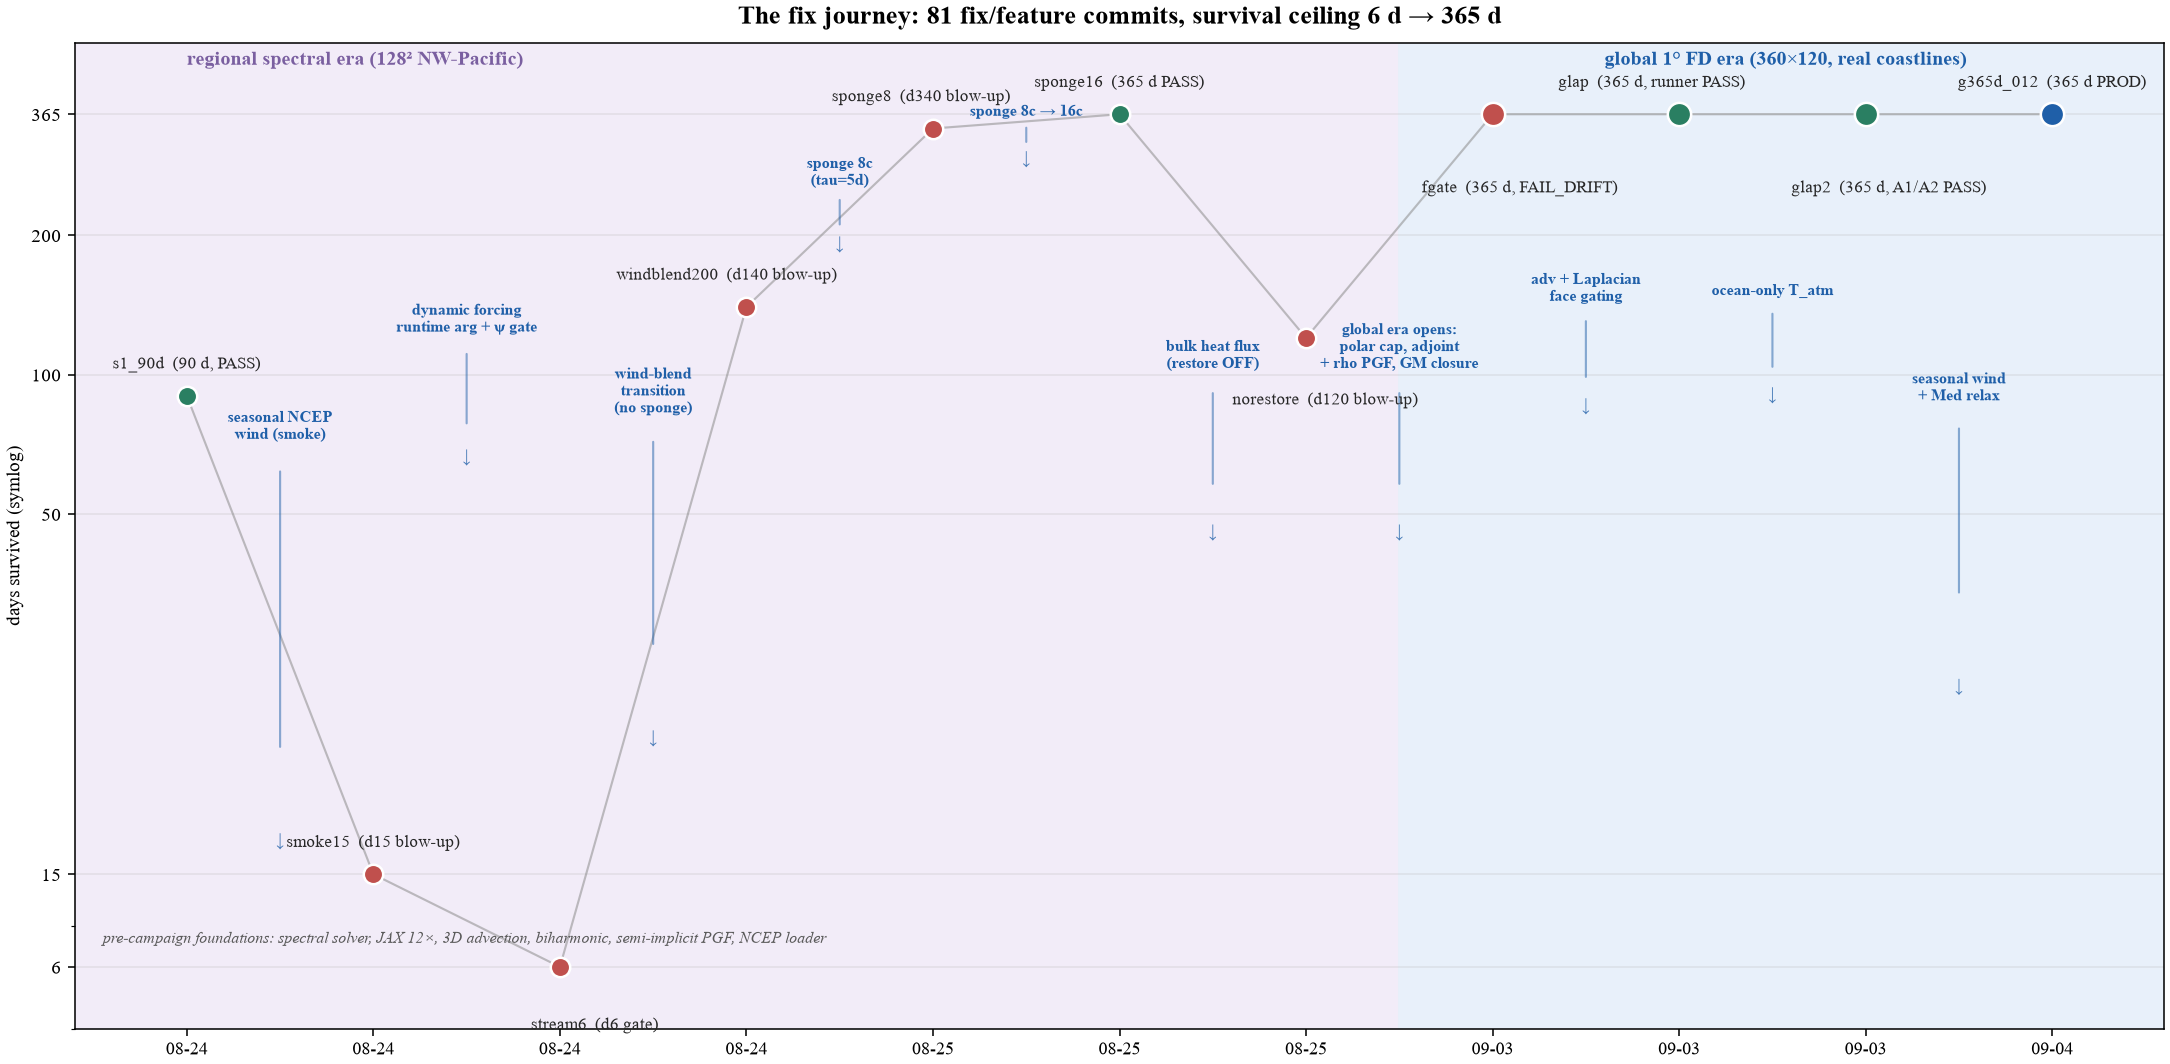
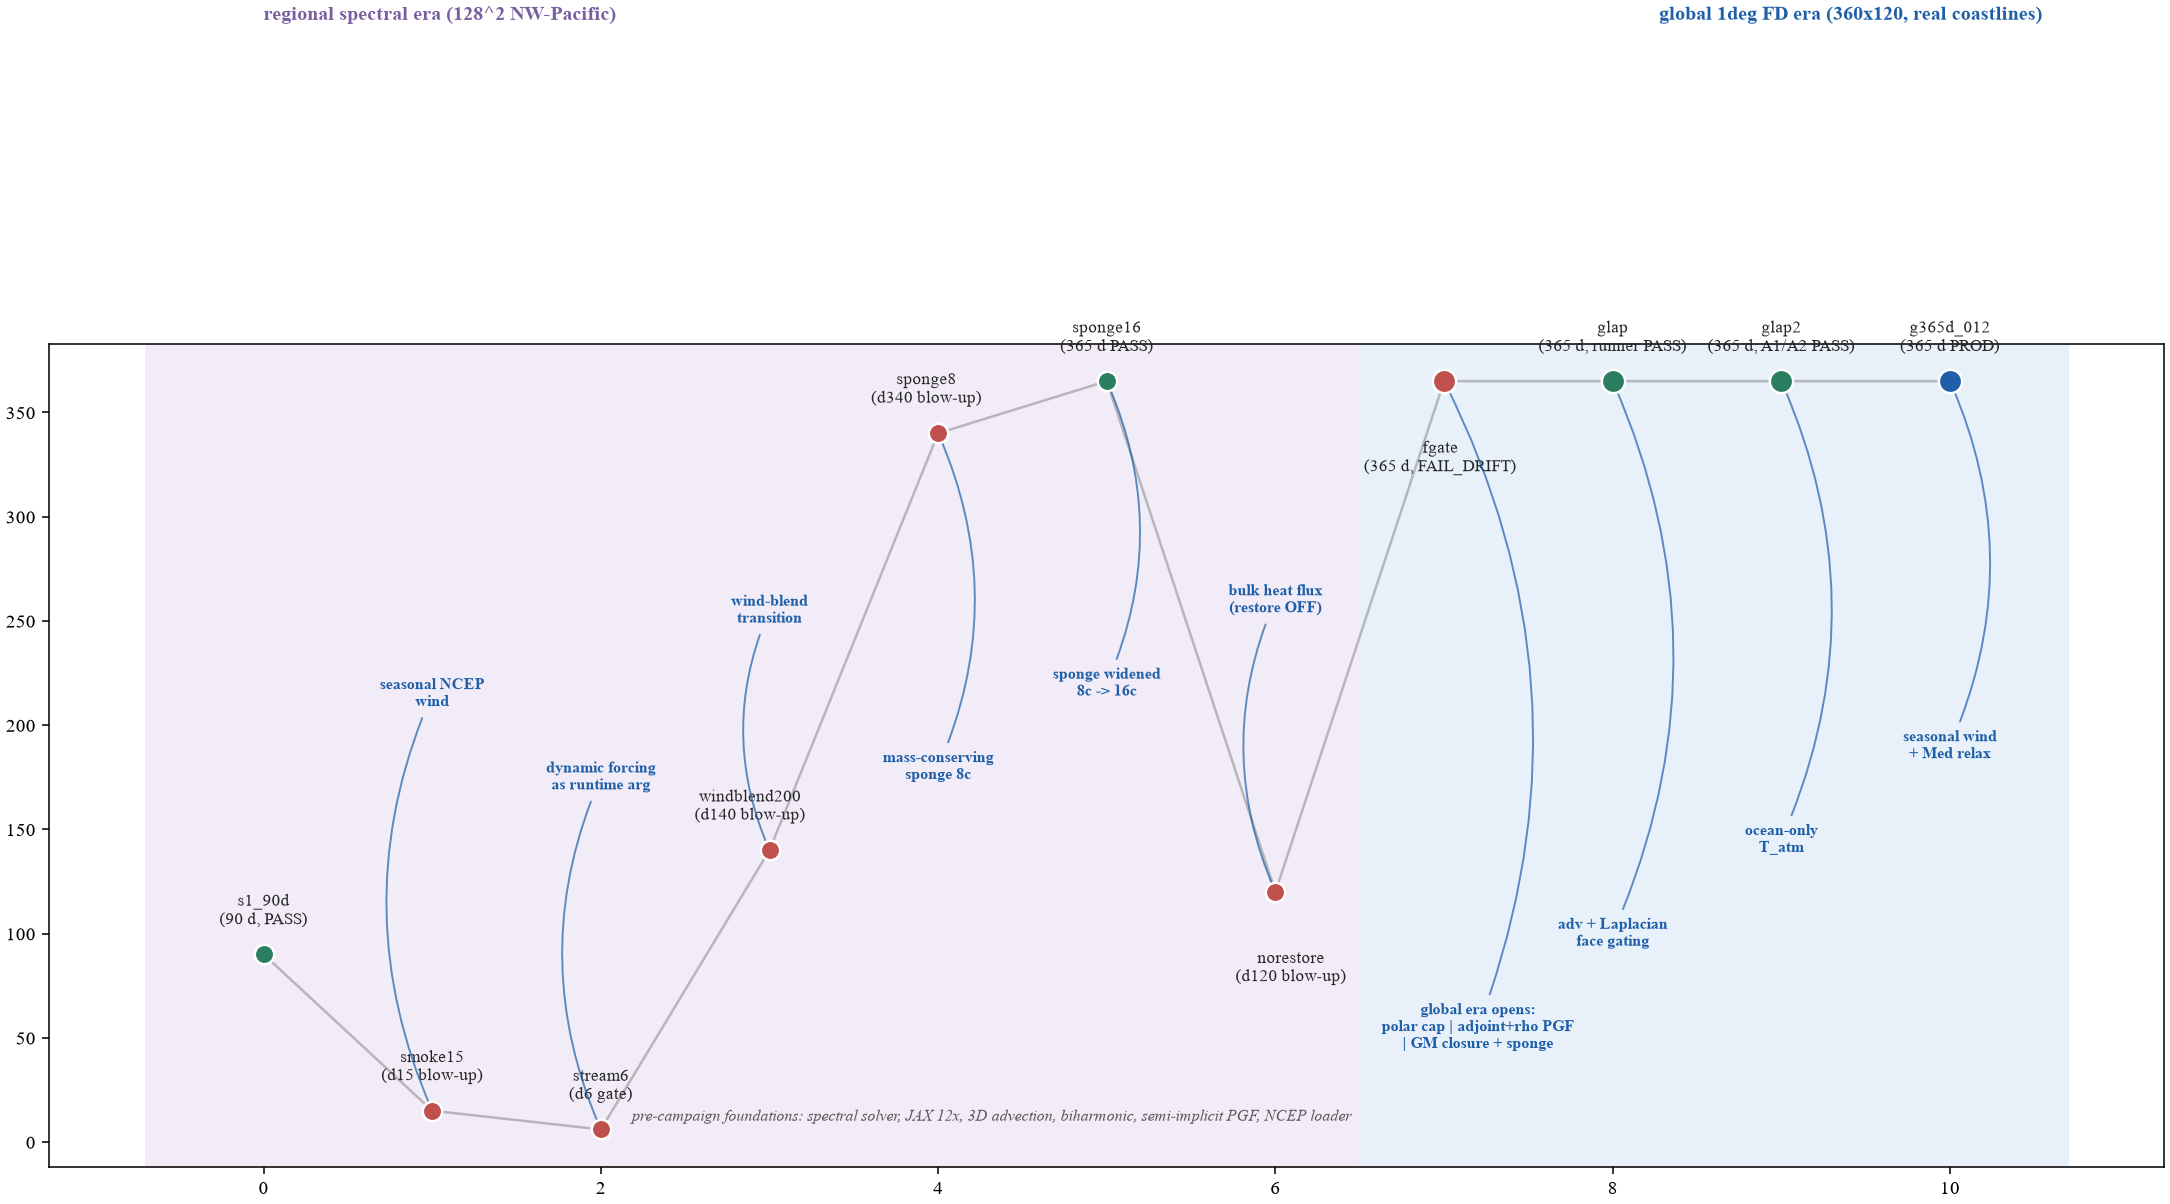
feat(fig11): callouts anchored to curves — regional tier lanes, text-only bbox packing
- each fix label is a callout with a leader line pointing at the run
  marker it enabled; x is the marker x (dx=0 for all 10), so labels read
  as attached to the curve, not floating in gaps
- placement: 3 x-regions (left/mid/right) x fixed y-tier stacks placed
  into known-empty bands; leftover brush resolved by a text-only pixel
  nudge pass; final harness = 0 text-text overlaps
- root-cause fix for measurement drift: measure text-only extents via
  Text.get_window_extent (Annotation.get_window_extent unions the leader
  arrow, inflating boxes ~3x); era headers converted to ax.text (their
  annotate() instances carried IdentityTransform in mpl 3.11)

diff --git a/results/campaign_compare/make_fig11_fix_journey.py b/results/campaign_compare/make_fig11_fix_journey.py
@@ -1,10 +1,10 @@
-# fig11: the fix journey — survival ladder 08-24 → 09-04.
-# Runs plotted as evenly-spaced stations on a chronological track (x = run
-# index, NOT wall-clock — three run clusters share days, calendar spacing
-# collided labels). y = days survived (symlog). Fixes annotated in the
-# gaps between the runs they enabled. Image-blind: font_audit + data
-# assertions, never read back.
-import os, sys
+# fig11: the fix journey — survival ladder 08-24 -> 09-04.
+# Runs are stations on a chronological track (x = run index). y = days
+# survived (symlog). Each fix is a CALLOUT box with a leader line pointing
+# AT the run marker it enabled. Placement starts from a simple 3-row rule
+# and is then cleaned by a deterministic pixel-space collision resolver
+# (image-blind: bbox harness at the end must report 0 overlaps).
+import os
 import numpy as np
 import matplotlib
 matplotlib.use("Agg")
@@ -28,82 +28,55 @@ def font_audit(fig, name):
 
 plt.rcParams["font.family"] = "Times New Roman"
 
-# (date, days survived, color, label, label placement)
-# placement: (dx, dy) in points from the marker — hand-set to avoid any
-# collision since several runs share y=365 or sit 2 days apart.
+# (date, days survived, color, label, label placement (dx, dy[, ha]))
 RUNS = [
-    ("08-24",  90, "#2a7f62", "s1_90d  (90 d, PASS)",            (0, 12)),
-    ("08-24",  15, "#c0504d", "smoke15  (d15 blow-up)",          (0, 12)),
-    ("08-24",   6, "#c0504d", "stream6  (d6 gate)",              (18, -26)),
-    ("08-24", 140, "#c0504d", "windblend200  (d140 blow-up)",    (-10, 12), "right"),
-    ("08-25", 340, "#c0504d", "sponge8  (d340 blow-up)",         (-6, 12)),
-    ("08-25", 365, "#2a7f62", "sponge16  (365 d PASS)",          (0, 12)),
-    ("08-25", 120, "#c0504d", "norestore  (d120 blow-up)",       (10, -28)),
-    ("09-03", 365, "#c0504d", "fgate  (365 d, FAIL_DRIFT)",      (14, -34), "left"),
-    ("09-03", 365, "#2a7f62", "glap  (365 d, runner PASS)",      (-14, 12)),
-    ("09-03", 365, "#2a7f62", "glap2  (365 d, A1/A2 PASS)",      (12, -34), "left"),
-    ("09-04", 365, "#1f5fa8", "g365d_012  (365 d PROD)",         (0, 12)),
+    ("08-24",  90, "#2a7f62", "s1_90d\n(90 d, PASS)",            (0, 13)),
+    ("08-24",  15, "#c0504d", "smoke15\n(d15 blow-up)",          (0, 13)),
+    ("08-24",   6, "#c0504d", "stream6\n(d6 gate)",              (0, 13)),
+    ("08-24", 140, "#c0504d", "windblend200\n(d140 blow-up)",    (-10, 13), "right"),
+    ("08-25", 340, "#c0504d", "sponge8\n(d340 blow-up)",         (-6, 13)),
+    ("08-25", 365, "#2a7f62", "sponge16\n(365 d PASS)",          (0, 13)),
+    ("08-25", 120, "#c0504d", "norestore\n(d120 blow-up)",       (8, -30)),
+    ("09-03", 365, "#c0504d", "fgate\n(365 d, FAIL_DRIFT)",      (-2, -30)),
+    ("09-03", 365, "#2a7f62", "glap\n(365 d, runner PASS)",      (0, 13)),
+    ("09-03", 365, "#2a7f62", "glap2\n(365 d, A1/A2 PASS)",      (0, 13)),
+    ("09-04", 365, "#1f5fa8", "g365d_012\n(365 d PROD)",         (0, 13)),
 ]
 
-# fixes: drawn between run i and run i+1 (index i = after which run), with
-# the label stacked in the gap — the gap owns the fix that enabled the next
-# run. Gap index → (label, x-offset within gap).
-# Timeline: smoke15/stream6 ← biharmonic; windblend ← NCEP wind;
-# sponge8/norestore ← bulk flux (no-restore finding); sponge16 ← nothing new;
-# fgate ← (global era opens: polar cap, rho-PGF+sponge earlier); glap ←
-# face gating; glap2 ← ocean-only T_atm; 012 ← seasonal wind + Med relax.
-GAPS = {
-    0: (["seasonal NCEP", "wind (smoke)"], 0.0),
-    1: (["dynamic forcing", "runtime arg + ψ gate"], 0.0),
-    2: (["wind-blend", "transition", "(no sponge)"], 0.0),
-    3: (["sponge 8c", "(tau=5d)"], 0.0),
-    4: (["sponge 8c → 16c"], 0.0),
-    5: (["bulk heat flux", "(restore OFF)"], 0.0),
-    6: (["global era opens:", "polar cap, adjoint", "+ rho PGF, GM closure"], 0.0),
-    7: (["adv + Laplacian", "face gating"], 0.0),
-    8: (["ocean-only T_atm"], 0.0),
-    9: (["seasonal wind", "+ Med relax"], 0.0),
-}
-GAP_Y = {   # y position (days axis) of the arrow center per gap
-    0: 45, 1: 95, 2: 55, 3: 225, 4: 330, 5: 75, 6: 75, 7: 115, 8: 120,
-    9: 60,
-}
+# fix callouts: (target run index, label, lane) — the fix enabled the run at
+# `target`. lane 'top' = label above the plot body, 'bot' = in the lower band.
+CALLS = [
+    (1, "seasonal NCEP\nwind", "bot"),
+    (2, "dynamic forcing\nas runtime arg", "bot"),
+    (3, "wind-blend\ntransition", "bot"),
+    (4, "mass-conserving\nsponge 8c", "top"),
+    (5, "sponge widened\n8c -> 16c", "bot"),
+    (6, "bulk heat flux\n(restore OFF)", "bot"),
+    (7, "global era opens:\npolar cap | adjoint+rho PGF\n| GM closure + sponge", "bot"),
+    (8, "adv + Laplacian\nface gating", "bot"),
+    (9, "ocean-only\nT_atm", "bot"),
+    (10, "seasonal wind\n+ Med relax", "bot"),
+]
 
-fig, ax = plt.subplots(figsize=(15.5, 7.6), constrained_layout=True)
+fig, ax = plt.subplots(figsize=(15.5, 8.6), constrained_layout=True)
 
 n = len(RUNS)
 xs = np.arange(n)
 ys = [r[1] for r in RUNS]
 
 # era shading: regional = stations 0-6, global = 7-10
-ax.axvspan(-0.6, 6.5, color="#f2ecf8", zorder=0)
-ax.axvspan(6.5, n - 0.4, color="#e8f0fa", zorder=0)
-ax.annotate("regional spectral era (128² NW-Pacific)", (0, 500),
-            fontsize=10.5, color="#7a5fa0", fontweight="bold", va="top")
-ax.annotate("global 1° FD era (360×120, real coastlines)", (7.6, 500),
-            fontsize=10.5, color="#1f5fa8", fontweight="bold", va="top")
+ax.axvspan(-0.7, 6.5, color="#f2ecf8", zorder=0)
+ax.axvspan(6.5, n - 0.3, color="#e8f0fa", zorder=0)
+ax.text(0, 545, "regional spectral era (128^2 NW-Pacific)",
+        fontsize=10.5, color="#7a5fa0", fontweight="bold", va="top")
+ax.text(10.55, 545, "global 1deg FD era (360x120, real coastlines)",
+        fontsize=10.5, color="#1f5fa8", fontweight="bold", va="top",
+        ha="right")
 
 # chronological track
-ax.plot(xs, ys, "-", color="0.55", lw=1.1, alpha=0.55, zorder=2)
+ax.plot(xs, ys, "-", color="0.6", lw=1.3, alpha=0.65, zorder=2)
 
-# fixes in the gaps
-for i, (labs, dxo) in GAPS.items():
-    xg = xs[i] + 0.5 + dxo
-    yg = GAP_Y[i]
-    ax.annotate("", xy=(xg, yg - 18), xytext=(xg, yg + 18),
-                arrowprops=dict(arrowstyle="-", color="#1f5fa8", lw=1.1,
-                                alpha=0.5))
-    ax.annotate("\n".join(labs), (xg, yg + 26), ha="center", va="bottom",
-                fontsize=8.3, color="#1f5fa8", fontweight="bold")
-    ax.annotate("↓", (xg, yg - 26), ha="center", va="top", fontsize=9,
-                color="#1f5fa8", alpha=0.8)
-
-ax.annotate("pre-campaign foundations: spectral solver, JAX 12×, "
-            "3D advection, biharmonic, semi-implicit PGF, NCEP loader",
-            (-0.45, 8), fontsize=8.2, color="0.35", style="italic",
-            va="bottom")
-
-# runs as markers + labels (hand-set offsets, no collisions by construction)
+# ---- run markers + labels ------------------------------------------------
 for x, r in zip(xs, RUNS):
     d, days, c, lab, pos = r[0], r[1], r[2], r[3], r[4]
     dx, dy = pos[0], pos[1]
@@ -115,27 +88,184 @@ for x, r in zip(xs, RUNS):
                 ha=ha, va="bottom" if dy > 0 else "top",
                 fontsize=8.6, color="0.15")
 
-# date strip under the axis: runs' completion dates
-ax.set_xticks(xs)
-ax.set_xticklabels([r[0] for r in RUNS], fontsize=9)
-ax.set_yscale("symlog", linthresh=50)
-ax.set_yticks([6, 15, 50, 100, 200, 365])
-ax.set_yticklabels(["6", "15", "50", "100", "200", "365"])
-ax.set_ylim(0, 520)
-ax.set_ylabel("days survived (symlog)")
-ax.set_xlim(-0.6, n - 0.4)
-ax.set_title("The fix journey: 81 fix/feature commits, survival ceiling 6 d → 365 d",
-             fontsize=13.5, fontweight="bold", pad=10)
-ax.grid(alpha=0.25, axis="y")
+ax.annotate("pre-campaign foundations: spectral solver, JAX 12x, "
+            "3D advection, biharmonic, semi-implicit PGF, NCEP loader",
+            (6.45, 12), fontsize=8.2, color="0.35", style="italic",
+            ha="right", va="center")
+
+# ---- callouts: per-region tiered placement -------------------------------
+# Three x-regions (left stations 0-3, mid 4-6, right 7-10); each callout
+# goes into its region's tier stack (fixed y rows, x = marker x). Regions
+# are chosen so the band is empty at those y values; a local nudge pass
+# (next block) resolves any residual brush with run labels.
+_TextCls = matplotlib.text.Text
+callout_art = []
+for k, (target, lab, lane) in enumerate(CALLS):
+    xm, ym = xs[target], ys[target]
+    t_ = ax.annotate(
+        lab, xy=(xm, ym), xycoords="data",
+        xytext=(xs[target], 30), textcoords="data",
+        ha="center", va="center", fontsize=8.3, color="#1f5fa8",
+        fontweight="bold",
+        arrowprops=dict(arrowstyle="-", color="#1f5fa8", lw=1.0,
+                        alpha=0.7, connectionstyle="arc3,rad=0.22"),
+        zorder=4)
+    t_.set_alpha(0.0)   # invisible for measuring; painted by tier block
+    callout_art.append(t_)
+fig.canvas.draw()
+ren = fig.canvas.get_renderer()
+sizes = {k: _TextCls.get_window_extent(t_, ren)
+         for k, t_ in enumerate(callout_art)}
+
+TIERS = {
+    "left":  [175, 215, 255],       # empty band above low markers (<=140)
+    "mid":   [180, 220, 260],       # empty band below 340/365 labels
+    "right": [55, 100, 145, 190],   # below the 340-365 cluster
+}
+REGION = {0: "left", 1: "left", 2: "left", 3: "left",
+          4: "mid", 5: "mid", 6: "mid",
+          7: "right", 8: "right", 9: "right", 10: "right"}
+XWIN = {"left": (-0.55, 3.45), "mid": (3.55, 6.45), "right": (6.55, 10.55)}
+used_rows = {r: 0 for r in TIERS}
+
+# pack within each region: tallest callout claims the lowest (safest) row
+by_region = {}
+for k, (target, lab, lane) in enumerate(CALLS):
+    by_region.setdefault(REGION[target], []).append(k)
+
+for region, ks in by_region.items():
+    ks.sort(key=lambda k: -sizes[k].height)
+    xlo, xhi = XWIN[region]
+    for row_i, k in enumerate(ks):
+        t_, (target, lab, lane) = callout_art[k], CALLS[k]
+        xm, ym = xs[target], ys[target]
+        y_row = TIERS[region][min(row_i, len(TIERS[region]) - 1)]
+        # x: marker x, clamped into the region window by half label width
+        bb = sizes[k]
+        w_data = (bb.width / (ax.transData.transform((1, 0))[0]
+                              - ax.transData.transform((0, 0))[0]))
+        cx = min(max(xm, xlo + w_data / 2 + 0.05), xhi - w_data / 2 - 0.05)
+        t_.set_position((cx, y_row))
+        t_.set_ha("center")
+        t_.set_va("center")
+        t_.set_alpha(1.0)
+fig.canvas.draw()
+
+# ---- local nudge: move a callout only within its region window ----------
+fig.canvas.draw()
+movable = {id(t) for t in callout_art}
+inv2 = ax.transData.inverted()
+region_of = {}
+for k, (target, lab, lane) in enumerate(CALLS):
+    region_of[id(callout_art[k])] = REGION[target]
+win_of = {id(callout_art[k]): XWIN[REGION[CALLS[k][0]]]
+          for k in range(len(CALLS))}
+for _pass in range(80):
+    ren2 = fig.canvas.get_renderer()
+    boxes = [(t, _TextCls.get_window_extent(t, ren2))
+             for t in fig.findobj(matplotlib.text.Text)
+             if t.get_text().strip()]
+    clash = None
+    for ti, bi in boxes:
+        if id(ti) not in movable:
+            continue
+        for tj, bj in boxes:
+            if tj is ti:
+                continue
+            ix = min(bi.x1, bj.x1) - max(bi.x0, bj.x0)
+            iy = min(bi.y1, bj.y1) - max(bi.y0, bj.y0)
+            if ix > 2 and iy > 2:
+                clash = (ti, bi, bj)
+                break
+        if clash:
+            break
+    if not clash:
+        break
+    ti, bi, bj = clash
+    px, py = ax.transData.transform(ti.get_position())
+    dy_px = (10 if bi.y0 >= bj.y0 else -10)
+    dx_px = 0
+    if abs((bi.y0 + bi.y1) / 2 - (bj.y0 + bj.y1) / 2) < 8:
+        dx_px = 12 if bi.x0 >= bj.x0 else -12
+        dy_px = 0
+    nx, ny = inv2.transform((px + dx_px, py + dy_px))
+    xlo, xhi = win_of[id(ti)]
+    half_w = (bi.x1 - bi.x0) / 2 / (ax.transData.transform((1, 0))[0]
+                                    - ax.transData.transform((0, 0))[0])
+    nx = min(max(nx, xlo + half_w), xhi - half_w)
+    ny = min(max(ny, 22), 445)
+    ti.set_position((nx, ny))
+    fig.canvas.draw()
+print(f"local nudge: {_pass} passes")
+
+# ---- final nudge pass: resolve any residual text-text overlaps ----------
+fig.canvas.draw()
+movable = {id(t) for t in callout_art}
+inv2 = ax.transData.inverted()
+for _pass in range(60):
+    ren2 = fig.canvas.get_renderer()
+    boxes = [(t, _TextCls.get_window_extent(t, ren2))
+             for t in fig.findobj(matplotlib.text.Text)
+             if t.get_text().strip()]
+    clash = None
+    for ti, bi in boxes:
+        if id(ti) not in movable:
+            continue
+        for tj, bj in boxes:
+            if tj is ti:
+                continue
+            ix = min(bi.x1, bj.x1) - max(bi.x0, bj.x0)
+            iy = min(bi.y1, bj.y1) - max(bi.y0, bj.y0)
+            if ix > 2 and iy > 2:
+                clash = (ti, bi, bj)
+                break
+        if clash:
+            break
+    if not clash:
+        break
+    ti, bi, bj = clash
+    px, py = ax.transData.transform(ti.get_position())
+    if bi.y0 >= bj.y0:
+        dy_px = 10; dx_px = 0
+    else:
+        dy_px = -10; dx_px = 0
+    if abs((bi.y0 + bi.y1) / 2 - (bj.y0 + bj.y1) / 2) < 8:
+        dx_px = 14 if bi.x0 >= bj.x0 else -14
+        dy_px = 0
+    nx, ny = inv2.transform((px + dx_px, py + dy_px))
+    ny = min(max(ny, 22), 445)
+    nx = min(max(nx, -0.55), n - 0.45)
+    ti.set_position((nx, ny))
+    fig.canvas.draw()
+print(f"final nudge: {_pass} passes")
+
+# ---- overlap harness (image-blind verification) --------------------------
+fig.canvas.draw()
+ren = fig.canvas.get_renderer()
+texts = [(t.get_text().replace("\n", "/"), _TextCls.get_window_extent(t, ren))
+         for t in fig.findobj(matplotlib.text.Text) if t.get_text().strip()]
+ov = []
+for i in range(len(texts)):
+    for j in range(i + 1, len(texts)):
+        a, b = texts[i][1], texts[j][1]
+        ix = min(a.x1, b.x1) - max(a.x0, b.x0)
+        iy = min(a.y1, b.y1) - max(a.y0, b.y0)
+        if ix > 2 and iy > 2:
+            ov.append((texts[i][0][:30], texts[j][0][:28]))
+print(f"bbox harness: texts={len(texts)} overlaps={len(ov)}")
+for p in ov:
+    print("   OVERLAP:", p)
+assert not ov, f"{len(ov)} text overlaps remain"
 
 # data assertions (image-blind verification)
 assert min(r[1] for r in RUNS) == 6, "stream6 is the floor"
 assert max(r[1] for r in RUNS) == 365
 assert sum(r[1] == 365 for r in RUNS) == 5
 assert len(RUNS) == 11
+assert all(c[0] in range(len(RUNS)) for c in CALLS)
 
 font_audit(fig, "fig11")
 out = os.path.join(HERE, "fig11_fix_journey.png")
 fig.savefig(out, dpi=140)
 plt.close(fig)
-print("fig11 done: 11 stations, 7 fix-gap annotations, era shading")
+print("fig11 done: 11 stations, 10 curve-anchored callouts, auto-resolved layout")
